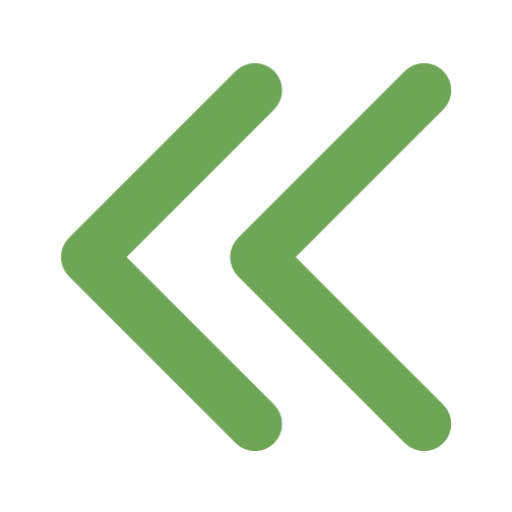
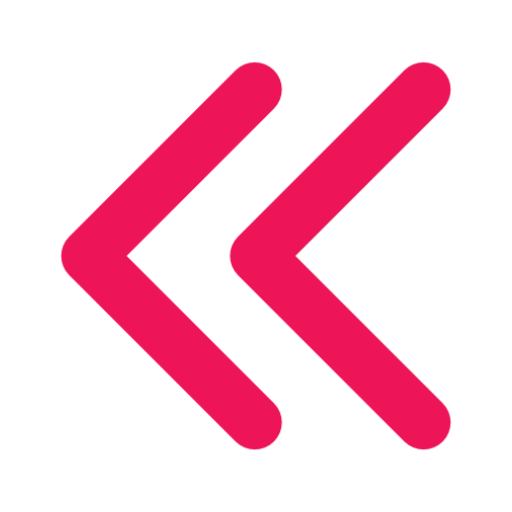
Styling and menu

Changed region(s): [[0.4375, 0.0938, 0.9062, 0.9062], [0.0938, 0.125, 0.5625, 0.9062]]

diff --git a/TreasureTrek/src/components/myCreatedAdventures/createAdventure/formView.js b/TreasureTrek/src/components/myCreatedAdventures/createAdventure/formView.js
@@ -96,7 +96,7 @@ class FormView extends Component {
         />
         <View style={{justifyContent: 'center',
   alignItems: 'center', marginTop: 10}}>
-          <Text style={{color: '#7AAE62', fontSize: 30}}>Riddle 1</Text>
+          <Text style={{color: '#24CCFD', fontSize: 20}}>Riddle 1</Text>
         </View>
         <TextInput
           style={{height: 40, borderColor: 'gray', borderWidth: 1, borderRadius: 10, fontSize: 20, paddingLeft: 15, paddingRight: 15, marginTop: 10}}
@@ -128,7 +128,7 @@ class FormView extends Component {
         />
         <View style={{justifyContent: 'center',
   alignItems: 'center', marginTop: 10}}>
-          <Text style={{color: '#7AAE62', fontSize: 30}}>Riddle 2</Text>
+          <Text style={{color: '#24CCFD', fontSize: 20}}>Riddle 2</Text>
         </View>
         <TextInput
           style={{height: 40, borderColor: 'gray', borderWidth: 1, borderRadius: 10, fontSize: 20, paddingLeft: 15, paddingRight: 15, marginTop: 10}}
@@ -158,7 +158,7 @@ class FormView extends Component {
         />
         <View style={{justifyContent: 'center',
   alignItems: 'center', marginTop: 10}}>
-          <Text style={{color: '#7AAE62', fontSize: 30}}>Riddle 3</Text>
+          <Text style={{color: '#24CCFD', fontSize: 20}}>Riddle 3</Text>
         </View>
         <TextInput
           style={{height: 40, borderColor: 'gray', borderWidth: 1, borderRadius: 10, fontSize: 20, paddingLeft: 15, paddingRight: 15, marginTop: 10}}

diff --git a/TreasureTrek/src/components/nav/Menu.js b/TreasureTrek/src/components/nav/Menu.js
@@ -7,7 +7,8 @@ import {
   View,
   AsyncStorage,
   AlertIOS,
-  TouchableHighlight
+  TouchableHighlight,
+  Image
 } from 'react-native';
 
 import Auth from '../auth/Auth';
@@ -64,7 +65,6 @@ class Menu extends Component {
 
     return (
       <View>
-        <Text style={{marginTop: 200, alignSelf: 'center'}}>Choose A Route!</Text>
         <TouchableHighlight style={styles.button} onPress={this.toMyAds.bind(this)} underlayColor='#99d9f4'>
             <Text style={styles.buttonText}>My Adventures</Text>
         </TouchableHighlight>
@@ -77,6 +77,7 @@ class Menu extends Component {
         <TouchableHighlight style={styles.button} onPress={this.userLogout.bind(this)} underlayColor='#99d9f4'>
             <Text style={styles.buttonText}>Logout</Text>
         </TouchableHighlight>
+
       </View>
     );
   }
@@ -126,15 +127,16 @@ const styles = {
     alignSelf: 'center'
   },
   button: {
-    height: 36,
+    height: 45,
     backgroundColor: '#48BBEC',
-    borderColor: '#48BBEC',
+    borderColor: 'white',
     borderWidth: 1,
-    borderRadius: 8,
-    marginBottom: 10,
+
     alignSelf: 'stretch',
-    justifyContent: 'center'
+    justifyContent: 'center',
+    zIndex: 1
   },
+
 }
 
 export default Menu;

diff --git a/TreasureTrek/src/components/myCreatedAdventures/createAdventureHeader.js b/TreasureTrek/src/components/myCreatedAdventures/createAdventureHeader.js
@@ -8,7 +8,7 @@ const CreateAdventureHeader = (props) => {
   return (
     <View style={viewStyle}>
       <View>
-        <Image style={menuStyle} source={require('../../resources/plus-button.png')} />
+        <Image style={menuStyle} source={require('../../resources/plus-button-red.png')} />
       </View>
       <View>
         <Text style={textStyle}>{'Create Adventure'}</Text>
@@ -20,25 +20,21 @@ const CreateAdventureHeader = (props) => {
 
 const styles = {
   viewStyle: {
-    height: 80,
-    shadowColor: '#000',
-    shadowOffset: { width:0, height: 2 },
-    shadowOpacity: 0.2,
     elevation: 2,
     flexDirection: 'row',
     borderWidth: 2,
-    borderColor: '#ed1558'
+    borderColor: '#ed1558',
+    padding: 10
   },
   textStyle: {
+    paddingTop: 2,
     fontSize: 20,
     color: '#ed1558',
-    marginLeft: 20,
-    marginTop: 13,
+    marginLeft: 55
   },
   menuStyle: {
-    height: 50,
-    width: 50,
-    marginTop: 12,
+    height: 30,
+    width: 30,
     marginLeft: 12
   },
 };

diff --git a/TreasureTrek/src/components/myCreatedAdventures/createAdventure/CreateAdventureHeader2.js b/TreasureTrek/src/components/myCreatedAdventures/createAdventure/CreateAdventureHeader2.js
@@ -22,28 +22,28 @@ const CreateAdventureHeader2 = (props) => {
 
 const styles = {
   viewStyle: {
-    height: 80,
     shadowColor: '#000',
     shadowOffset: { width:0, height: 2 },
     shadowOpacity: 0.2,
     elevation: 2,
     flexDirection: 'row',
     borderWidth: 2,
-    borderColor: '#7AAE62',
+    borderColor: '#ed1558',
     justifyContent: 'center',
-    alignItems: 'center'
+    alignItems: 'center',
+    padding: 12.3
   },
   textStyle: {
-    fontSize: 35,
-    color: '#7AAE62',
-    marginTop: 5,
+    fontSize: 20,
+    color: '#ed1558',
+
     marginRight: 55,
     marginLeft: 55
   },
   menuStyle: {
-    height: 50,
-    width: 50,
-    marginTop: 5
+    height: 25,
+    width: 25,
+
   }
 };
 

diff --git a/TreasureTrek/src/components/myCreatedAdventures/createAdventure/SubmitButton.js b/TreasureTrek/src/components/myCreatedAdventures/createAdventure/SubmitButton.js
@@ -19,24 +19,25 @@ const SubmitButton = () => {
 const styles = {
   viewStyle: {
     marginTop: 20,
-    height: 80,
     shadowColor: '#000',
     shadowOffset: { width:0, height: 2 },
     shadowOpacity: 0.2,
     elevation: 2,
     flexDirection: 'row',
     borderWidth: 2,
-    borderColor: '#d13539',
-    backgroundColor: '#DF7376',
+    borderColor: '#ed1558',
+    backgroundColor: 'white',
     marginBottom: 20,
     borderRadius: 10,
     justifyContent: 'center',
-    alignItems: 'center'
+    alignItems: 'center',
+    padding: 12.3
   },
   titleStyle: {
     color: 'white',
-    fontSize: 40,
+    fontSize: 20,
     fontWeight: '600',
+    color: '#ed1558'
   }
 };
 

diff --git a/TreasureTrek/src/components/myCreatedAdventures/AdventureDetails.js b/TreasureTrek/src/components/myCreatedAdventures/AdventureDetails.js
@@ -22,16 +22,16 @@ const AdventureDetail = ({ singleAdventure }) => {
 
 const styles = {
   viewStyle: {
-    //marginTop: 20,
-    height: 80,
+    // height: 80,
     shadowColor: '#000',
     shadowOffset: { width:0, height: 2 },
     shadowOpacity: 0.2,
     elevation: 2,
     flexDirection: 'row',
-    borderWidth: 2,
+    borderWidth: 1,
     borderColor: 'white',
-    backgroundColor: '#ed1558'
+    backgroundColor: '#24CCFD',
+    padding: 10
   },
   detailsStyle: {
     flexDirection: 'column',
@@ -41,7 +41,7 @@ const styles = {
   },
   titleStyle: {
     color: 'white',
-    fontSize: 18,
+    fontSize: 14,
     fontWeight: '600'
   },
   arrowsStyle: {

diff --git a/TreasureTrek/src/components/nav/MenuButton.js b/TreasureTrek/src/components/nav/MenuButton.js
@@ -8,7 +8,8 @@ import {
   AsyncStorage,
   AlertIOS,
   TouchableHighlight,
-  Image
+  Image,
+  Navigator
 } from 'react-native';
 
 import Auth from '../auth/Auth';
@@ -21,7 +22,8 @@ class MenuButton extends Component {
   goToMenu () {
     this.props.toRoute({
       name: "Menu",
-      component: Menu
+      component: Menu,
+      sceneConfig: Navigator.SceneConfigs.FloatFromLeft
     });
   }
 
